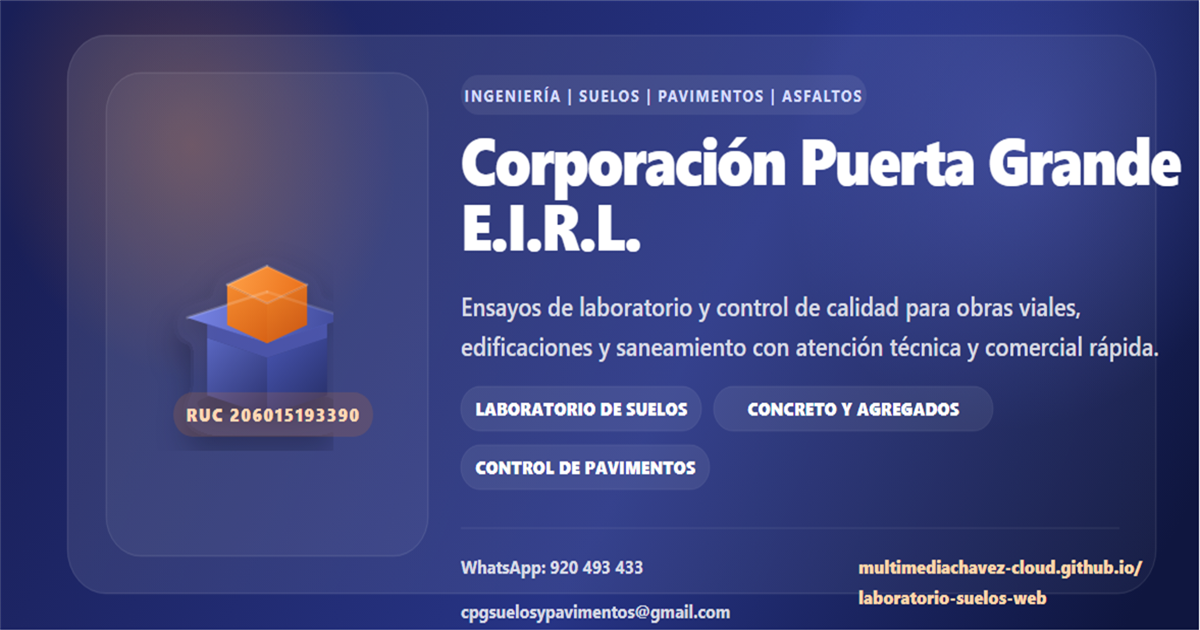
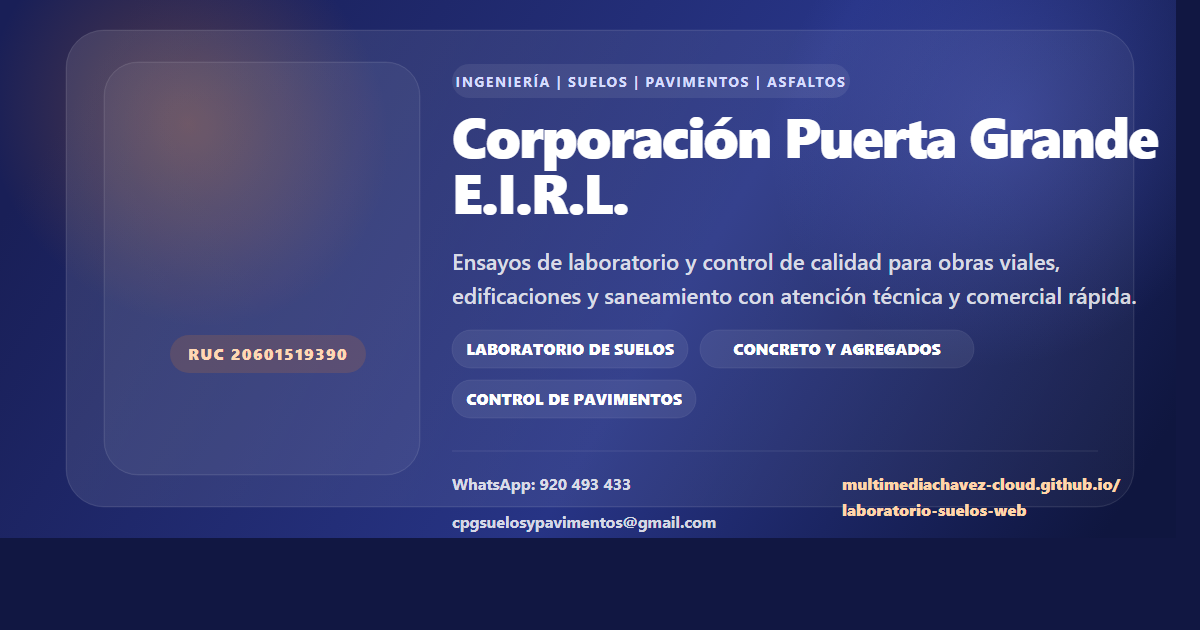
Regenerate social preview image

diff --git a/social-preview-card.html b/social-preview-card.html
@@ -1,0 +1,32 @@
+<!DOCTYPE html>
+<html lang="es">
+<head>
+  <meta charset="UTF-8">
+  <meta name="viewport" content="width=device-width, initial-scale=1.0">
+  <title>Social Preview</title>
+  <style>
+    html,
+    body {
+      margin: 0;
+      width: 100%;
+      height: 100%;
+      overflow: hidden;
+      background: #111742;
+    }
+
+    body {
+      display: grid;
+      place-items: center;
+    }
+
+    img {
+      display: block;
+      width: 1200px;
+      height: 630px;
+    }
+  </style>
+</head>
+<body>
+  <img src="assets/social-preview.svg" alt="Vista previa social de Corporación Puerta Grande E.I.R.L.">
+</body>
+</html>